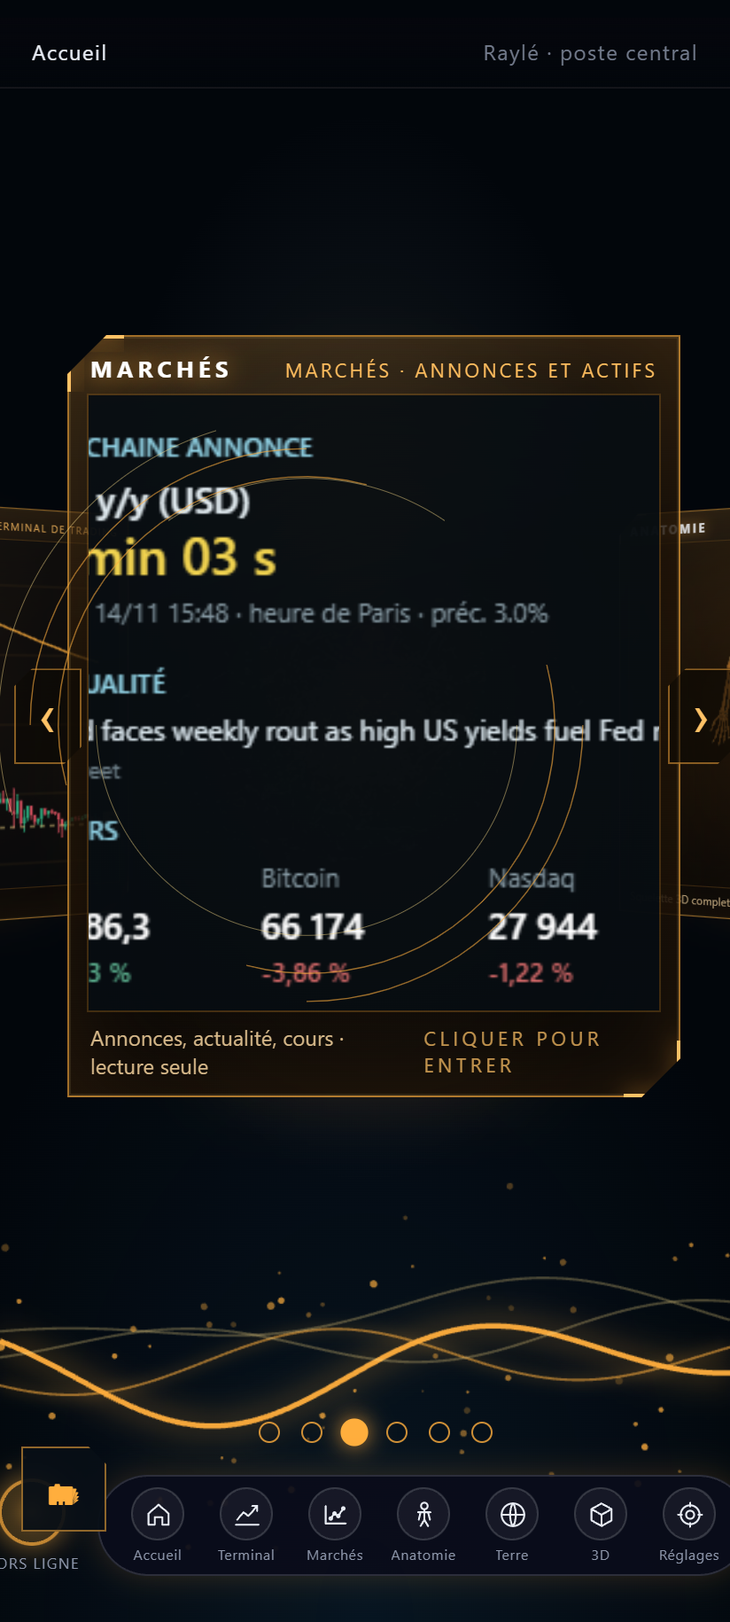
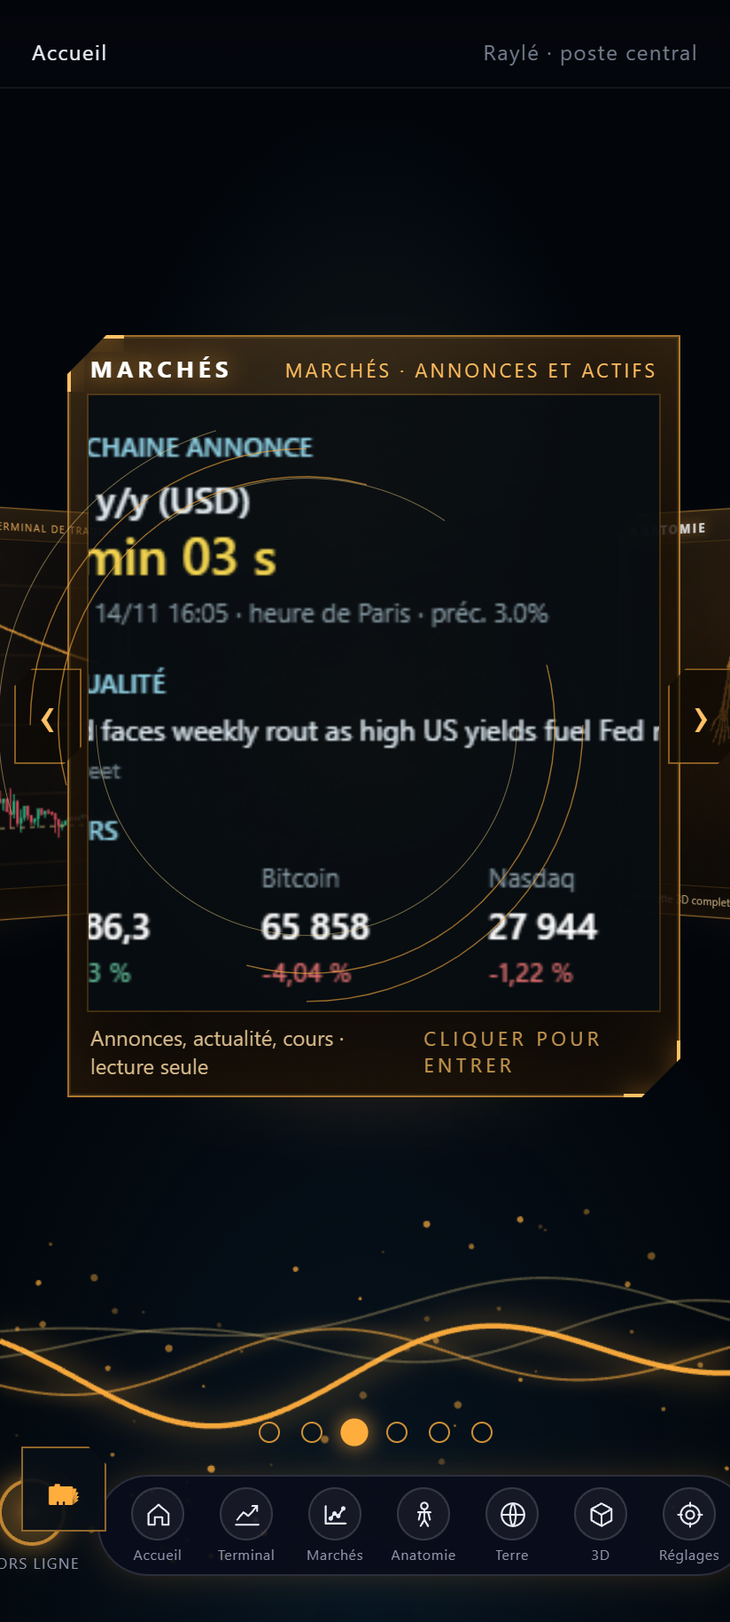
Mobile autonome : service worker avec precache et cache d'abord, squelettes, Worker de calcul, perf, rapports, version 2026.11.14.1

diff --git a/agent-trading/front/marches/marches-fenetre.js b/agent-trading/front/marches/marches-fenetre.js
@@ -52,10 +52,10 @@ export async function ouvrir({ racine = document.body, onFermer = () => {} } = {
     el.querySelectorAll('[data-actif]').forEach(b => b.setAttribute('aria-pressed', String(b.dataset.actif === id)));
     cible.innerHTML = '<p class="mf-att" role="status">Lecture des données…</p>';
     try { if (id === 'sante') return await ficheSante(cible, n); const a = parId[id]; if (!a) return;
-      const [h1, j, m15, cr, cal, act, cot] = await Promise.all([lireBougies(a.sym, '1h').catch(() => null), lireBougies(a.sym, '1d').catch(() => null), lireBougies(a.sym, '15m').catch(() => null), coursRapides().catch(() => null), calendrierSemaine().catch(() => null), actualites('marches', 60).catch(() => null), lireRoute(`/__cot?inst=${a.cot}&n=80`).catch(() => null)]);
+      const [h1, j, m15, cr, cal, act, cot] = await Promise.all([lireBougies(a.sym, '1h', { ttl: 20 * 60e3 }).catch(() => null), lireBougies(a.sym, '1d', { ttl: 20 * 60e3 }).catch(() => null), Promise.resolve(null), coursRapides().catch(() => null), calendrierSemaine().catch(() => null), actualites('marches', 60).catch(() => null), lireRoute(`/__cot?inst=${a.cot}&n=80`).catch(() => null)]);
       if (n !== S.seq) return; if (!h1 && !j) throw Object.assign(new Error('Aucune bougie disponible pour cet actif (réseau et instantanés injoignables, pas de copie locale).'), { sansDonnee: true });
       const H1 = h1 ? h1.donnees.bougies : [], J = j ? j.donnees.bougies : [], M15 = m15 ? m15.donnees.bougies : [], now = Date.now();
-      const an = await calculer({ type: 'analyse', series: { H1, J, M15 }, maintenant: now }).catch(() => null); if (n !== S.seq) return;
+      const an = await calculer({ type: 'analyse', series: { H1, J, M15 }, maintenant: now }).catch(() => null); if (n !== S.seq) return; if (an) an.fleches = [];
       const q = cr && cr.cours && cr.cours[a.id], prix = q ? q.prix : (an && an.prix), veille = q ? q.veille : (H1.length > 24 ? H1[H1.length - 25].c : null), v = variation(prix, veille);
       const liees = cal ? prochaines(cal.liste, now, { impacts: ['fort'], max: 5, pays: a.pays.length ? a.pays : ['USD'] }) : [], aa = act ? actusPourActif(act.items, a, 6) : [], c = cot ? lireCot(cot.donnees) : null;
       const T = an ? an.tendances : {}, dir = an && an.fleches && an.fleches.length ? an.fleches[an.fleches.length - 1] : null;
@@ -64,13 +64,14 @@ export async function ouvrir({ racine = document.body, onFermer = () => {} } = {
         <p class="mf-doux">${q ? esc(q.origine + ' · ' + q.retard) : esc(h1 ? badge(h1) || h1.origine : 'bougies')}${an && an.tDernier ? ' · dernière bougie H1 : ' + esc(heureParis(an.tDernier)) : ''}</p>${hl ? `<p class="pg-etat pg-hl">${esc(badge(hl))}</p>` : ''}
         ${an ? `<h4>Tendance</h4><p><b>${esc(T.J ? T.J.sens : '—')}</b> en journalier : ${esc(T.J ? T.J.raison || '' : '')}</p><p>${esc(an.mtf.texte)} <small>(score descriptif ${an.mtf.score >= 0 ? '+' : ''}${an.mtf.score}/${an.mtf.sur} : une lecture, jamais un signal)</small></p>
         <table class="mf-t"><tr><th>M15</th><th>H1</th><th>H4</th><th>Jour</th><th>RSI H1</th><th>RSI J</th></tr><tr>${['M15', 'H1', 'H4', 'J'].map(k => `<td class="mf-${(T[k] && T[k].sens) === 'haussière' ? 'hausse' : (T[k] && T[k].sens) === 'baissière' ? 'baisse' : 'neutre'}" title="${esc(T[k] ? T[k].raison || '' : '')}">${esc(T[k] ? T[k].sens : '—')}</td>`).join('')}<td>${an.rsiH1 == null ? '—' : an.rsiH1.toFixed(0)}</td><td>${an.rsiJ == null ? '—' : an.rsiJ.toFixed(0)}</td></tr></table>` : '<p class="mf-doux">Statistiques indisponibles (calcul interrompu).</p>'}
-        <div class="mf-graph" data-graph></div><p class="mf-doux">${an && an.flechesNote ? esc(an.flechesNote) : ''} ${dir ? '· dernière flèche : ' + (dir.dir > 0 ? 'achat' : 'vente') + ' le ' + esc(heureParis(dir.t)) : ''}</p>
+        <div class="mf-graph" data-graph></div><p class="mf-doux" data-note>flèches v8 : calcul en cours (en lecture seule)…</p>
         <h4>Annonces liées (à venir, impact fort)</h4>${liees.length ? `<ul class="mf-liste">${liees.map(x => `<li><b>${esc(x.titre)}</b> · ${esc(x.pays)} <span class="mf-cr" data-cr="${x.t}">${esc(compteARebours(x.t, now))}</span> <small>${esc(heureParis(x.t))}</small></li>`).join('')}</ul>` : '<p class="mf-doux">Aucune annonce majeure à venir pour ce marché cette semaine.</p>'}
         <h4>Actualités filtrées</h4>${aa.length ? `<ul class="mf-liste">${aa.map(x => `<li><a href="${/^https?:\/\//.test(x.lien || '') ? esc(x.lien) : '#'}" target="_blank" rel="noopener noreferrer">${esc(x.titre)}</a> <small>${esc(x.source || '')}</small></li>`).join('')}</ul>` : '<p class="mf-doux">Aucune actualité récente sur cet actif dans les sources suivies.</p>'}
         <h4>Publications publiques (COT, CFTC)</h4><p>${esc(phraseCot(c))}</p>${cot ? pEtat(cot) : ''}
         ${act ? pEtat(act) : ''}</article>`;
       el.querySelectorAll('[data-actif]').forEach(b => b.setAttribute('aria-pressed', String(b.dataset.actif === id)));
-      if (H1.length > 30) dessiner(cible.querySelector('[data-graph]'), H1.slice(-170), an ? an.fleches : [], a.dec, n);
+      if (H1.length > 30) { const box = cible.querySelector('[data-graph]'); await dessiner(box, H1.slice(-170), [], a.dec, n);
+        calculer({ type: 'fleches', series: { H1 }, maintenant: now }).then(fl => { if (n !== S.seq) return; const note = cible.querySelector('[data-note]'), d2 = fl.fleches && fl.fleches.length ? fl.fleches[fl.fleches.length - 1] : null; if (note) note.textContent = (fl.flechesNote || '') + (d2 ? ' · dernière flèche : ' + (d2.dir > 0 ? 'achat' : 'vente') + ' le ' + heureParis(d2.t) : ''); if (fl.fleches && fl.fleches.length && H1.length > 30) dessiner(box, H1.slice(-170), fl.fleches, a.dec, n); }).catch(e => { const note = cible.querySelector('[data-note]'); if (note) note.textContent = 'flèches indisponibles : ' + (e && e.message || e); }); }
     } catch (e) { if (n === S.seq) cible.innerHTML = `<p class="mf-panne" role="alert">${esc(e.sansDonnee ? e.message : 'Fiche impossible : ' + (e && e.message || e))} <button type="button" data-recharge="fiche">Réessayer</button></p>`; }
   }
   async function dessiner(box, B, fleches, dec, n) {

diff --git a/sw.js b/sw.js
@@ -9,11 +9,15 @@
    • Mise à jour : changer VERSION (= window.RAYLE_VERSION de index.html, vérifié par build.mjs) installe une nouvelle version qui ATTEND ; la page affiche « Nouvelle version disponible » ;
      au toucher, la page envoie SKIP_WAITING puis se recharge. Chaque version a ses caches : les anciens sont supprimés à l'activation.
    COEUR est remplacé à la construction (build.mjs) par la liste exacte des fichiers chargés au démarrage. */
-const VERSION = '2026.11.13.1';
+const VERSION = '2026.11.14.1';
 const SHELL = 'rayle-shell-' + VERSION, IMAGES = 'rayle-images-1';
 const COEUR = ['./', 'index.html', 'offline.html', 'manifest.webmanifest', 'favicon.svg', 'icones/rayle-192.png', 'config.js'];   // /*COEUR*/
-const TAILLE_MAX = 600 * 1024;
-const GARDER = /\.(?:js|mjs|css|html|json|webmanifest|svg|png|woff2?)$/i;
+const TAILLE_MAX = 2 * 1024 * 1024;
+/* 2026-11-14 (mobile autonome) : la liste de TOUS les fichiers d'un parcours complet est dans precache.json (outils-restructuration/collecter-precache.mjs) : installée avec la coque ;
+   ensuite le code et les ressources du même fichier viennent du cache D'ABORD (démarrage immédiat, hors ligne), sauf les pages de navigation, sw.js, precache.json et config.js (réseau d'abord : les mises à jour sont vues tout de suite).
+   Un changement de VERSION ré-installe tout (anciens caches supprimés). Les données de marché (instantanés, Kraken, Binance, Open-Meteo) ne passent PAS ici : la couche de données de la page gère son cache IndexedDB. */
+const RESEAU_D_ABORD = /(?:^|\/)(?:sw\.js|precache\.json|config\.js|index\.html|offline\.html)$|\/$/;
+const GARDER = /\.(?:js|mjs|css|html|json|webmanifest|svg|png|jpe?g|webp|woff2?)$/i;
 const JAMAIS = /\/(?:assets-lourds|captures[^/]*|docs|idees)\//i;
 
 /* Notifications des flèches (mode Direct) : un clic ramène sur le terminal. */
@@ -26,7 +30,8 @@ self.addEventListener('install', e => {
     const c = await caches.open(SHELL);
     // par lots de 8 (un serveur ne doit pas recevoir 90 demandes d'un coup), un nouvel essai par fichier ; un fichier absent n'empêche pas l'installation
     const un = async u => { for (let k = 0; k < 2; k++) { try { await c.add(new Request(u, { cache: 'reload' })); return; } catch (err) { /* nouvel essai */ } } };
-    for (let i = 0; i < COEUR.length; i += 8) await Promise.all(COEUR.slice(i, i + 8).map(un));
+    let liste = COEUR.slice(); try { const r = await fetch('precache.json', { cache: 'reload' }); if (r.ok) { const d = await r.json(); if (d && Array.isArray(d.coeur)) liste = [...new Set([...COEUR, ...d.coeur])]; } } catch (err) { /* sans liste : coque minimale */ }
+    for (let i = 0; i < liste.length; i += 8) await Promise.all(liste.slice(i, i + 8).map(un));
     self.skipWaiting();   // 2026-11-12 : la nouvelle version prend la main tout de suite (l'ancienne interface mobile ne doit plus jamais rester affichée)
   })());
 });
@@ -56,6 +61,11 @@ async function reseauDAbord(req) {
     throw err;
   }
 }
+async function cacheDAbord(req) {
+  const c = await caches.open(SHELL), copie = await c.match(req, { ignoreSearch: true });
+  if (copie) return copie;
+  return reseauDAbord(req);
+}
 async function copieDAbord(req) {
   const c = await caches.open(IMAGES), copie = await c.match(req);
   if (copie) return copie;
@@ -70,7 +80,7 @@ self.addEventListener('fetch', e => {
   const u = new URL(req.url);
   if (u.origin === self.location.origin) {
     if (u.pathname.includes('/__') || req.headers.has('range') || /^\/(?:health|sources|actualites|meteo|evenements|calendar|cot|macro|sec|wgc|ce-jour-la|chat|tts)(?:\/|$)/.test(u.pathname)) return;   // routes du PC ou du backend servi sur la même origine : le réseau, sans interception
-    e.respondWith(reseauDAbord(req));
+    e.respondWith(RESEAU_D_ABORD.test(u.pathname) || req.mode === 'navigate' ? reseauDAbord(req) : cacheDAbord(req));
   } else if (req.destination === 'image') e.respondWith(copieDAbord(req));
   // tout le reste (backend, API de marché, météo…) : le réseau, sans interception
 });

diff --git a/core/commun/application.js b/core/commun/application.js
@@ -205,6 +205,11 @@
     const m=await import(new URL('planetes/terre/mobile/terre-mobile.js',document.baseURI).href); await m.ouvrir({onFermer:()=>{ terreMobileOuverte=false; }}); terreMobileOuverte=true;
   }
   async function fermerTerreMobile(){ try{ const m=await import(new URL('planetes/terre/mobile/terre-mobile.js',document.baseURI).href); m.fermer(); }catch(e){} terreMobileOuverte=false; }
+  /* squelette immédiat (jamais un écran noir) pendant le chargement du terminal ou des marchés ; retiré dès que la fenêtre a pris la main */
+  function montrerSquelette(){
+    if(!document.getElementById('app-sq-css')){ const st=document.createElement('style'); st.id='app-sq-css'; st.textContent='#app-squelette{position:fixed;inset:0;z-index:105;display:flex;flex-direction:column;justify-content:center;gap:14px;padding:0 6%;background:#05080c;transition:opacity .3s}#app-squelette.fin{opacity:0;pointer-events:none}#app-squelette p{margin:0;text-align:center;color:#7d8f99;font:13px system-ui,sans-serif}.app-sq-b{display:flex;align-items:flex-end;gap:5px;height:42vh}.app-sq-b i{flex:1;background:#14212b;border-radius:2px;animation:app-sq 1.4s ease-in-out infinite}@keyframes app-sq{50%{opacity:.35}}@media (prefers-reduced-motion:reduce){.app-sq-b i{animation:none}}'; document.head.appendChild(st); }
+    const d=document.createElement('div'); d.id='app-squelette'; d.setAttribute('role','status'); d.innerHTML='<div class="app-sq-b">'+Array.from({length:32},(_,i)=>'<i style="height:'+(22+Math.round(38*Math.abs(Math.sin(i*0.7+1))))+'%;animation-delay:'+(i%8)*0.12+'s"></i>').join('')+'</div><p>Chargement…</p>'; document.body.appendChild(d); return d;
+  }
   async function ouvrir(id,opts){
     const f=FENETRES.find(x=>x.id===id); if(!f||id==='rayle') return aller(0,{force:true});
     if(ouvert===id) return true; if(ouvert) await fermer({silencieux:true,sansAnim:true});
@@ -212,14 +217,16 @@
     if(id==='terre'){ try{ window.__RAYLE_TERRE_DEPART__=window.Miniatures&&window.Miniatures.terreEtat?window.Miniatures.terreEtat():null; }catch(e){} }   // la grande Terre démarre là où tournait la miniature
     const g=grandir(id);
     ouvert=id; corps.classList.add('app-ouvert'); croix.hidden=false; corps.dataset.appOuvert=id; placer();
+    const sq=(id==='terminal'||id==='marches')?montrerSquelette():null; const finSq=()=>{ if(sq){ sq.classList.add('fin'); setTimeout(()=>sq.remove(),350); } };
     try{
       if(id==='terre'&&!utiliserTerreMobile()) montrerApercuTerre();
       if(id==='terminal') await bus().demander('vue:ouvrir','terminal'); else if(id==='marches') await ouvrirMarches(); else if(id==='anatomie'&&await utiliserAtlas()) await ouvrirAtlas(); else if(id==='terre'&&utiliserTerreMobile()) await ouvrirTerreMobile(); else await ouvrirPlanete(id,opts);
     }catch(e){
       if(apercu){ const a0=apercu; apercu=null; a0.remove(); }
       console.error('[app] ouverture de '+id+' :',e); try{ bus().emit('vue:erreur',{message:f.nom+' n’a pas pu s’ouvrir : '+(e&&e.message||e)}); }catch(x){}
-      if(g) g.remove(); await fermer({silencieux:true,sansAnim:true}); return false;
+      finSq(); if(g) g.remove(); await fermer({silencieux:true,sansAnim:true}); return false;
     }
+    finSq();
     if(id==='terre'&&!terreMobileOuverte) cacherApercuTerre();
     if(g){ await attendre(220); g.classList.add('ac-fond'); setTimeout(()=>g.remove(),450); }
     try{ bus().emit('app:ouvert',{id}); bus().fusion('app',{vue:id,ouvert:id}); }catch(e){}

diff --git a/agent-trading/front/terminal/vue-terminal.js b/agent-trading/front/terminal/vue-terminal.js
@@ -7,6 +7,10 @@ import { monterTerminal } from './terminal.js';
 const ancienV2 = () => { try { return localStorage.getItem('rayle_terminal_ancien_v2') === '1'; } catch (e) { return false; } };
 function monterOr(h) {
   const f = document.createElement('iframe'); f.className = 'tr-or'; f.title = 'Terminal de l’or'; f.allow = 'clipboard-read; clipboard-write; autoplay; microphone'; f.style.cssText = 'position:absolute;inset:0;width:100%;height:100%;border:0;background:#05080c';
+  /* squelette visible tout de suite (jamais un écran noir) : bougies grises animées, retirées quand le cadre a chargé et dessiné son graphique */
+  if (!document.getElementById('tr-squelette-css')) { const st = document.createElement('style'); st.id = 'tr-squelette-css'; st.textContent = '.tr-squelette{position:absolute;inset:0;z-index:1;display:flex;flex-direction:column;justify-content:center;gap:14px;padding:0 6%;background:#05080c;pointer-events:none;transition:opacity .35s}.tr-squelette.tr-fin{opacity:0}.tr-squelette p{margin:0;text-align:center;color:#7d8f99;font:13px system-ui,sans-serif}.tr-sq-b{display:flex;align-items:flex-end;gap:5px;height:42vh}.tr-sq-b i{flex:1;background:#14212b;border-radius:2px;animation:tr-sq 1.4s ease-in-out infinite}@keyframes tr-sq{50%{opacity:.35}}@media (prefers-reduced-motion:reduce){.tr-sq-b i{animation:none}}'; document.head.appendChild(st); }
+  const sq = document.createElement('div'); sq.className = 'tr-squelette'; sq.setAttribute('role', 'status'); sq.innerHTML = '<div class="tr-sq-b">' + Array.from({ length: 32 }, (_, i) => '<i style="height:' + (22 + Math.round(38 * Math.abs(Math.sin(i * 0.7 + 1)))) + '%;animation-delay:' + (i % 8) * 0.12 + 's"></i>').join('') + '</div><p>Chargement du graphique…</p>'; h.appendChild(sq);
+  const finSq = () => { if (!sq.isConnected) return; sq.classList.add('tr-fin'); setTimeout(() => sq.remove(), 400); }; f.addEventListener('load', () => { let n = 0; const t = setInterval(() => { let pret = false; try { pret = [...f.contentDocument.querySelectorAll('canvas')].some(c => c.width > 300 && c.height > 150); } catch (e) { pret = true; } if (pret || ++n > 40) { clearInterval(t); finSq(); } }, 150); }); setTimeout(finSq, 15000);
   f.src = new URL('../or.html?vue=1', import.meta.url).href; h.appendChild(f);
   const proxy = { commande: t => { try { const T = f.contentWindow.TableauOr; return T && T.commande ? T.commande(t) : null; } catch (e) { return null; } } }; window.TableauOr = proxy;   // la voix de Rayle (phrase.js) interroge window.TableauOr : on le relaie vers la page de l'or
   return { iframe: f, detruire() { if (window.TableauOr === proxy) delete window.TableauOr; f.remove(); }, module(n) { return n === 'rayle' ? { commande: t => { try { const T = f.contentWindow.TableauOr; return !!(T && T.commande && T.commande(t)); } catch (e) { return false; } } } : null; } };

diff --git a/core/commun/miniatures.js b/core/commun/miniatures.js
@@ -178,9 +178,19 @@
     return { dessiner, tic(){ dessiner(); }, intervalle:1000, statique:true };
   }
 
+  /* ───── terre légère (téléphone, tablette) : une image de 30 Ko, aucune texture 8k, aucun moteur 3D ───── */
+  async function creerTerreLegere(m){
+    const img=new Image(); img.src=new URL('planetes/terre/apercu/terre-apercu.jpg',document.baseURI).href; try{ await img.decode(); }catch(e){}
+    function dessiner(t){ const c=m.ctx; c.clearRect(0,0,W,H); c.fillStyle='#02040a'; c.fillRect(0,0,W,H); const r=Math.min(W,H)*0.36, cx=W/2, cy=H/2;
+      const g=c.createRadialGradient(cx,cy,r*0.9,cx,cy,r*1.25); g.addColorStop(0,'rgba(90,150,255,.35)'); g.addColorStop(1,'rgba(90,150,255,0)'); c.fillStyle=g; c.beginPath(); c.arc(cx,cy,r*1.25,0,7); c.fill();
+      c.save(); c.beginPath(); c.arc(cx,cy,r,0,7); c.clip(); if(img.naturalWidth){ const k=(t*0.00002)%1, w2=img.naturalWidth, h2=img.naturalHeight, sc=(2*r)/h2*1.0; const dw=w2*sc; for(const dx of [-dw,0,dw]) c.drawImage(img,cx-r+dx-k*dw,cy-r,dw,2*r); } c.restore();
+      c.fillStyle='rgba(0,0,0,.28)'; c.beginPath(); c.arc(cx+r*0.35,cy,r,0,7); c.globalCompositeOperation='destination-out'; c.globalCompositeOperation='source-over'; }
+    return { dessiner, tic(now){ dessiner(now); }, intervalle:120, statique:true };
+  }
+
   /* ───── cycle de vie ───── */
   const LIBELLES={marches:'Annonces, actualité, cours · lecture seule',terminal:'Or · H1 · Kraken · lecture seule',anatomie:'Squelette 3D complet',terre:'',dev3d:'Atelier de maquettes 3D',rayle:''};
-  const FABRIQUES={marches:creerMarches,terminal:creerTerminal,anatomie:creerAnatomie,terre:creerTerre,dev3d:creerDev3d,rayle:creerRayle};
+  const FABRIQUES={marches:creerMarches,terminal:creerTerminal,anatomie:creerAnatomie,terre:(window.RayleAppareil&&window.RayleAppareil.mode()!=='pc')?creerTerreLegere:creerTerre,dev3d:creerDev3d,rayle:creerRayle};
   async function creer(id,canvas){
     if(minis.has(id)) return minis.get(id);
     if(!minis.size&&canvas.parentElement){ const bw=canvas.parentElement.offsetWidth, bh=canvas.parentElement.offsetHeight; if(bw>50&&bh>50){ H=260; W=Math.max(320,Math.min(720,Math.round(260*bw/bh))); } }

diff --git a/agent-trading/front/donnees/routes.js b/agent-trading/front/donnees/routes.js
@@ -55,7 +55,7 @@ export async function krakenSpot(sym, intervalle, { fetchFn = (...a) => fetch(..
   const der = L.length ? L[L.length - 1] : null;
   return { bougies, prix: der ? +der[4] : null, tPrix: Date.now() };
 }
-export async function lireBougies(sym, intervalle, { range = null, fetchFn = (...a) => fetch(...a), loc = globalThis.location, stockage = null, maintenant = () => Date.now() } = {}) {
+export async function lireBougies(sym, intervalle, { ttl = null, range = null, fetchFn = (...a) => fetch(...a), loc = globalThis.location, stockage = null, maintenant = () => Date.now() } = {}) {
   const o = originePc(loc), sources = [];
   if (o) sources.push({ niveau: 'pc', nom: 'serveur du PC (Yahoo)', ms: 20000, url: `${o}/__bougies?sym=${encodeURIComponent(sym)}&interval=${intervalle}${range ? '&range=' + range : ''}` });
   sources.push({ niveau: KRAKEN_PAIRES[sym] ? 'direct' : 'snapshot', nom: KRAKEN_PAIRES[sym] ? 'Kraken (direct) + snapshot' : 'snapshot ' + nomFichierBougies(sym, intervalle), ms: 15000,
@@ -67,7 +67,7 @@ export async function lireBougies(sym, intervalle, { range = null, fetchFn = (..
       const bougies = fusionnerBougies(base && base.bougies, direct && direct.bougies);
       return { ...(base || { sym, nom: sym, intervalle }), bougies, prix: direct && direct.prix != null ? direct.prix : (base && base.prix), tPrix: direct ? direct.tPrix : (base && base.tPrix), source: direct ? 'Kraken (direct) · historique du snapshot' : (base && base.source), t: direct ? maintenant() : (base && base.t) };
     } });
-  const res = await lireDonnee(`bougies|${sym}|${intervalle}`, { sources, ttl: intervalle === '1d' ? 10 * 60e3 : 45e3, stockage: stockage || creerStockageParDefaut(), fetchFn, maintenant,
+  const res = await lireDonnee(`bougies|${sym}|${intervalle}`, { sources, ttl: ttl != null ? ttl : (intervalle === '1d' ? 10 * 60e3 : 45e3), stockage: stockage || creerStockageParDefaut(), fetchFn, maintenant,
     valider: d => (d && Array.isArray(d.bougies) && d.bougies.length ? true : 'aucune bougie') });
   return { ...res, donnees: expanserBougies(res.donnees) };
 }

diff --git a/agent-trading/front/marches/calcul-dispatch.js b/agent-trading/front/marches/calcul-dispatch.js
@@ -1,8 +1,9 @@
 /* Répartiteur de calculs (utilisé par le Worker et, en secours, par le fil principal). Modules purs : stats-marches, couverture-calcul, performances-calcul. */
 import { analyseActif } from './stats-marches.js';
 export async function repondre(m) {
-  if (m.type === 'analyse') {
-    const r = analyseActif(m.series || {}); let fleches = [];
+  if (m.type === 'analyse') return analyseActif(m.series || {});   // rapide : affiché tout de suite
+  if (m.type === 'fleches') {
+    const r = {}; let fleches = [];
     try {
       const F8 = await import('../or/fleches-simples-v8.js'), Z = await import('../or/zones-direct.js'), H1 = (m.series && m.series.H1) || [];
       if (H1.length > 300) { const res = F8.calculer(H1, Z.zonesDirect, { maintenant: m.maintenant || Date.now(), bougies: 720, exception: true }); fleches = (res.fleches || []).filter(f => f.type !== 'ma_cassure').map(f => ({ t: f.tCloture || f.t, dir: f.dir, type: f.type, prix: f.prix })); r.flechesNote = 'flèches v8 en lecture seule : les règles ne sont pas modifiées'; }

diff --git a/index.html b/index.html
@@ -289,7 +289,7 @@
   <div id="chargement"><div id="chargement-texte">Chargement des mondes…</div><div class="g-barre"><div id="chargement-barre"></div></div></div>
 </div>
 
-<script>window.RAYLE_VERSION='2026.11.13.1';</script>
+<script>window.RAYLE_VERSION='2026.11.14.1';</script>
 <script src="config.js"></script>
 <script src="core/commun/maj-pc.js"></script>
 <script src="core/commun/bascule-worker.js"></script>

diff --git a/outils-restructuration/INDEPENDANCE-PC.md b/outils-restructuration/INDEPENDANCE-PC.md
@@ -1,0 +1,30 @@
+# Indépendance du PC (2026-11-14)
+
+## 1. Inventaire : ce qui dépendait du serveur du PC
+| Fonction | Dépendance d'origine | Solution |
+|---|---|---|
+| COT, Actualités, Banques, Institutions, Santé du marché, GLD, Calendrier (onglets du terminal) | routes `/__cot`, `/__actus`, `/__banques`, `/__institutions`, `/__sante`, `/__gld`, `/__calendrier2`, `/__yahoo` de `serveur.mjs` (404 sur GitHub Pages) | `agent-trading/front/donnees/routes.js` : PC seulement si la page vient de lui, sinon **instantané** de la branche `donnees`, sinon **copie locale** (IndexedDB) datée |
+| Bougies Nasdaq, S&P, Bitcoin, Solana, dollar, EUR/USD, USD/CHF | `/__bougies` (Yahoo via le PC) | `lireBougies` : Bitcoin et Solana en **direct** (Kraken, CORS ouvert) fusionnés à l'historique de l'instantané ; autres : instantané `bougies-*.json` |
+| Or (graphique) | relais Cloudflare `rayle-or-relais` (indépendant du PC) | inchangé (n'a jamais dépendu du PC) |
+| Rayle Marchés (12 panneaux) | `/marches/panneau` du serveur | instantanés `marches-<id>[-<actif>].json` (même code du hub exécuté par le robot) + copie locale |
+| Copilote de données, analyse IA automatique | serveur de Rayle | sans le PC : message clair ; **mode manuel gratuit** (export / import) inchangé |
+| Journal et Capital | déjà sur l'appareil (localStorage / IndexedDB) | + sauvegarde / restauration JSON dans ⚙ Réglages |
+| Terre (téléphone) | module 3D du PC (tuiles de plusieurs serveurs, Workers, texture 8k) : restait sur « Chargement… » | **Terre mobile** autonome (`planetes/terre/mobile/`), textures du dépôt, séismes USGS et météo Open-Meteo en direct |
+| Alertes Telegram | processus `alertes-serveur.mjs` sur le PC | workflow GitHub Actions `alertes.yml` (même moteur v8, mêmes règles) |
+| Miniature de la Terre (carrousel) | globe 3D avec textures 8k téléchargées sur téléphone | image de 30 Ko sur téléphone et tablette |
+
+## 2. Couche de données (trois niveaux)
+Ordre : copie locale affichée tout de suite si fraîche → lecture directe → instantané → copie périmée **avec le badge « hors ligne : dernière donnée du JJ/MM à HH:MM »**. Jamais de « HTTP 404 » brut : sans rien, message « Aucune donnée pour le moment… ». Page « État des sources » : ⚙ Réglages › Autonomie (origine, âge, erreur, dernier passage du robot).
+
+Lectures directes vérifiées par test réel (CORS) : Kraken spot OHLC, Binance (spot et futures), CFTC, mempool.space, DefiLlama, USGS, Open-Meteo, relais de l'or. Bloquées (donc par instantané) : flux RSS, FRED, calendrier Forex Factory, SEC, Trésor, Fed de New York, Yahoo. Frankfurter a changé d'adresse (redirection 301) : non utilisée en direct.
+
+## 3. Robot d'instantanés (`.github/workflows/donnees.yml`)
+Toutes les 15 min (au mieux ; GitHub peut retarder) : lot rapide (actualités, calendrier, Yahoo, 12 panneaux Marchés) ; une exécution sur deux : bougies ; chaque heure : COT (8), banques, institutions, santé, GLD, séries journalières de l'univers (15 actifs, prix ajustés). Branche orpheline `donnees`, historique écrasé (le dépôt ne grossit pas), lue par `raw.githubusercontent.com` (CORS `*`). Dépôt public : minutes gratuites. Une source en panne ne détruit pas la copie précédente (`index.json` note l'erreur). `verifier-publication.mjs` refuse de publier un secret ou une donnée personnelle.
+
+## 4. Alertes sans PC (`alertes.yml`)
+Toutes les 5 min (au mieux) : `alertes-serveur.mjs --une-fois`, mêmes règles (v8, anti-spam 6/heure/actif, 5 min entre deux messages d'un même niveau, déduplication), état gardé dans `etat/alertes-etat.json` de la branche `donnees`. **Retards de quelques minutes possibles : pas du temps réel à la seconde.** Le jeton Telegram n'est jamais dans le dépôt : secrets `TELEGRAM_BOT_TOKEN` et `TELEGRAM_CHAT_ID`. Appli fermée, les notifications du navigateur ne marchent pas : seules les alertes Telegram du robot arrivent.
+
+## 5. Ce qui ne marche PAS sans le PC
+Copilote de données (interroge le serveur), analyse IA **automatique** (la clé reste côté serveur), séries FRED libres, route d'actions saisies hors liste du robot, voix Azure, IA locale (LM Studio), agent PC. Tout le reste fonctionne.
+
+Tests : `tests-navigateur/independance-pc-test.mjs` (54, PC arrêté puis réseau coupé), `terre-mobile-test.mjs` (25), `reglages-autonomie-test.mjs` (46), `marches-carrousel-test.mjs` (40 × 2), `sw-hors-ligne-test.mjs` (9), `agent-trading/tests/couche-donnees-test.mjs` (28).

diff --git a/outils-restructuration/RAPPORT-COUVERTURE-PERFORMANCES.md b/outils-restructuration/RAPPORT-COUVERTURE-PERFORMANCES.md
@@ -1,0 +1,16 @@
+# Couverture et performances (Phase 6, 2026-11-14)
+Sous-page de la fenêtre Marchés (section « Couverture et performances »). Code : `agent-trading/front/marches/{couverture-calcul,performances-calcul,journal-p6,univers,couverture-ui}.js` ; calculs lourds dans le Worker ; données : `jour-<actif>.json` (robot).
+
+## Sources par actif (gratuites, sans clé)
+Or = Yahoo `GC=F` (contrat à terme : écart de base avec le spot) · US100 `^NDX`, US500 `^GSPC` (indices, sans dividendes) · Bitcoin `BTC-USD`, Solana `SOL-USD` (depuis 2020 : historique court) · EUR/USD, USD/CHF + GBP/USD, USD/JPY, EUR/CHF, AUD/USD (Yahoo, taux interbancaire, **sans swap**) · contexte : DXY, taux US 10 ans (`^TNX`), taux US 2 ans (**FRED DGS2**), VIX · inflation (FRED CPI) : contexte, **jamais dans les corrélations**. Retard : différé ≈ 15 min (indices, or), quasi temps réel (crypto, monnaies). Tout est écrit dans l'onglet « Sources ».
+Prix ajustés (splits, dividendes) quand Yahoo fournit `adjclose` (actions) ; clôtures **synchronisées par date** entre marchés. **Actions d'entreprise saisies par l'utilisateur** : l'appli ne peut pas lire Yahoo seule (pas de CORS) ; le symbole se déclare dans `outils-donnees/univers-utilisateur.json` (une ligne, `{"id":"AAPL","yahoo":"AAPL"}`), le robot le télécharge au passage suivant ; sinon message honnête, rien n'est estimé.
+
+## Partie A : couverture (testée : 51 + 27 vérifications)
+Matrice de corrélations de **rendements** (30, 90, 250 jours ; 5 jours horaires quand les barres existent), nombre d'observations, stabilité par paire (corrélation glissante, changements de signe, écart entre fenêtres), « pas assez de données » sous 60 observations. Couvertures d'une position (achat / vente) : jambe à ouvrir, ratio à variance minimale **en risque** (part du risque = |ρ|), réduction de volatilité et de perte maximale, espérance perdue, comportement des pires jours (10 %), coût (spread et swap **saisis par toi** ; sans valeur : « non renseigné », jamais inventé), réglage (60 %) et test (40 %) séparés, verdict utile / partielle / instable / inutile. Portefeuille : exposition nette par facteur (dollar, actions, or, crypto, franc), doublons signalés. Journal XTB : import CSV et Excel (lecteur ZIP/XML maison), statistiques (réussite, gain/perte, espérance et R quand le stop est connu, factor de profit, frais, drawdown, par heure / jour / actif / sens, séries de pertes, revanche, nuit), « petit échantillon » sous 30, simulation « mes résultats avec la couverture proposée » (notionnel déduit de chaque trade). Données **sur l'appareil**.
+
+## Partie B : performances (testée : 39 vérifications)
+Tableau (1/3/6 mois, 1/3/5 ans, par année, mois et semaines en hausse, drawdown et durée, séries, volatilité, plus forte remontée contre la tendance), tendance de fond 3/6/12 mois avec régularité et changements de sens, **test de persistance** (règles figées avant : horizons 6 et 12 mois, 50 % réglage / 50 % test, 1 000 tirages, graine fixe, Holm, n < 30 : indéterminé ; verdict sur le **hors échantillon**), stratégie « suivre la tendance » (MA200) simulée avec spread, glissement, **swap**, levier, comparée à « ne rien faire », à « acheter et garder » et à 1 000 stratégies aléatoires de même exposition (décalage circulaire), effet du swap, comportement aux retournements, classement (tendance régulière observée / pas de tendance exploitable / données insuffisantes ; jamais une opportunité garantie), fonction de lecture seule `memeSensQueFleche` (non branchée à l'écran, voir limites).
+Vérifié sur jeux synthétiques : marche aléatoire → jamais « persisté » ; processus à dérive persistante → « persisté de façon significative » ; série de croissance connue → rendements attendus ; swap et spread abaissent le résultat.
+
+## Limites et ce qui n'est pas mesuré
+Rien n'est conseillé ; les mentions permanentes sont affichées. Aucune valeur de courtier supposée. Le résultat sur données réelles (ce que dit l'historique de l'or, du Nasdaq…) n'a pas été interprété ici : c'est l'outil qui le calcule. Les valeurs XTB réelles (spread, swap) restent à saisir. **B6 (même sens que la dernière flèche v8) : la fonction pure est écrite et testée mais N'EST PAS encore affichée dans l'interface** (reste à brancher).

diff --git a/PROGRESS.md b/PROGRESS.md
@@ -1,3 +1,18 @@
+# APPLI MOBILE AUTONOME (2026-11-14, branche `mobile-autonome`, étiquette `avant-mobile-autonome`)
+**Statut : fait et testé en émulation (S23, tablette) ; rien testé sur un vrai appareil.** Rapports : `outils-restructuration/{INDEPENDANCE-PC,PERF-MOBILE,RAPPORT-COUVERTURE-PERFORMANCES,RAPPORT-H4-JOUR}.md`. Règles de flèches v1…v8, archive `direct-v7-valide`, sceaux et contrôles : NON touchés.
+
+## Utiliser l'appli sans le PC
+- **Couche de données** (`agent-trading/front/donnees/{couche,routes}.js`) : copie locale (IndexedDB) → lecture directe (Kraken, USGS, Open-Meteo…) → instantanés publiés par le robot GitHub (`.github/workflows/donnees.yml`, branche orpheline `donnees`, lue par raw.githubusercontent.com). Badge « hors ligne : dernière donnée du … ». Page « État des sources » : ⚙ Réglages › Autonomie.
+- **Alertes Telegram sans PC** : `.github/workflows/alertes.yml` (5 min au mieux, retards possibles). Secrets à poser par Justin (voir commandes ci-dessous).
+- **Terre mobile** (`planetes/terre/mobile/`) : globe autonome, textures du dépôt (Solar System Scope CC BY 4.0, d'après NASA), séismes USGS, météo, recherche, actualités ; WebGL refusé ou texture absente = message + « Réessayer ».
+- **Fenêtre Marchés** dans le carrousel (miniature vivante, barre du bas) : annonces avec compte à rebours, fiche par actif (RSI, multi-échelles, flèches v8 en lecture seule calculées dans un Worker), alertes locales, panneaux et IA manuelle, **Couverture et performances** (Phase 6).
+- **Réglages** : section Autonomie (qualité, Terre, sources, notifications, fournisseur d'IA, sauvegarde/restauration, état des sources, version) ; la fenêtre passe au-dessus de toutes les autres.
+- **Graphiques H4/Jour** corrigés (MA200 en une ligne, niveaux proposés filtrés).
+- **Service worker** : `precache.json` (326 fichiers) cache d'abord ; version `2026.11.14.1` (index.html = sw.js). **À chaque publication : changer les deux et relancer `node outils-restructuration/collecter-precache.mjs`.**
+- Tests : `node agent-trading/tests/{couche-donnees,proposes-filtre,couverture,performances,journal-p6,marches-fenetre}-test.mjs`, `planetes/terre/tests/mobile-calcul-test.mjs`, `galaxie/tests/reglages-autonomie-test.mjs` ; Chrome (serveurs : `node serveur.mjs 8000` et `node outils-donnees/serveur-snapshots.mjs <dossier> 8801`) : `tests-navigateur/{independance-pc,terre-mobile,reglages-autonomie,marches-carrousel,sw-hors-ligne,perf-mobile}-test.mjs`.
+- **Pièges** : un heredoc Bash avec apostrophes est tronqué (utiliser l'outil Write) ; `\d` perdu dans un script d'édition ; le serveur local `serveur.mjs` est lui-même « le PC » (utiliser un nom d'hôte non local avec `--host-resolver-rules` pour simuler GitHub Pages) ; le service worker exige localhost ou HTTPS.
+- **Non vérifié** : vrai téléphone (tactile, géolocalisation, installation), exécution réelle des workflows (Yahoo depuis une IP GitHub), Telegram réel, fournisseurs d'IA réels.
+
 # ANALYSE IA : gratuite par défaut, fournisseur interchangeable (2026-11-14, branche `maj-marches-ia`)
 **Statut : fait et testé (Node + Chrome en émulation). Rien déployé, Worker non touché, aucun secret dans le dépôt. Remplace le « point 4 » du brief.**
 - **Sans rien configurer (gratuit, aucune clé, aucun abonnement)** : mode manuel complet. Marchés › « Analyse IA » (commande `IA`) : **Exporter pour analyse** → texte structuré (actif, unité de temps, 40 dernières bougies, MA200, RSI 14, échelle de prix, niveaux majeurs, flèches v8, consignes, format JSON) + **Copier le texte** + **Enregistrer la capture** (PNG du graphique du terminal) ; coller le texte dans n'importe quelle IA ; coller sa réponse JSON dans **Importer la réponse** → validation stricte → image annotée dessinée par notre code (bandes de zones nommées, niveaux, flèches de scénarios en pointillés, invalidations, légende, avertissement) + **Enregistrer l'image annotée**. Capture interne : conversion prix → pixel exacte (testée). Capture importée (option « Dessiner sur ma propre capture ») : on saisit le prix en haut et en bas de l'image ; mention très visible « POSITIONS APPROXIMATIVES ».

diff --git a/outils-restructuration/PERF-MOBILE.md b/outils-restructuration/PERF-MOBILE.md
@@ -1,0 +1,15 @@
+# Performance mobile (2026-11-14)
+Conditions : Galaxy S23 émulé (412×915, ×2), CPU ralenti ×4, réseau 1,6 Mbit/s / 150 ms, GPU logiciel SwiftShader (pessimiste). Script : `tests-navigateur/perf-mobile-test.mjs` (chiffres bruts : `perf-mesures.json`). Plafonds vérifiés automatiquement (échec si dépassés).
+
+| Mesure | Avant (visite sans précache) | Après (appli installée, 2e visite) | Plafond |
+|---|---|---|---|
+| Écran noir avant le terminal | 8 s et plus (relevé de la vidéo) ; squelette absent | **squelette 0,8 s** | 1,5 s |
+| Premier graphique du terminal | ≈ 13 à 15 s | **1,5 s** | 9 s |
+| Plus longue tâche (> 50 ms) | 1,2 à 2,0 s (calcul des flèches sur le fil principal) | **0,12 s** | 1,5 s |
+| Marchés prêt (fiche d'actif) | 18 s (flèches v8 bloquantes) | **0,5 s** copie locale · 11,7 s données froides | 12 s |
+| Mémoire JS | — | 26 Mo, 24 Mo après fermeture de la Terre | 220 Mo |
+| Terre mobile affichée | ne s'affichait pas | 0,2 à 3,4 s | — |
+
+Causes traitées : (1) tout le code venait du réseau à chaque ouverture → `precache.json` (326 fichiers, 5,4 Mo) installé avec le service worker, code et ressources **cache d'abord**, pages et `sw.js` réseau d'abord ; (2) squelette immédiat (`application.js`, `vue-terminal.js`) ; (3) calcul des statistiques et des flèches v8 dans un **Web Worker** (`marches/calcul-worker.js`), l'affichage ne l'attend pas ; (4) la miniature de la Terre téléchargeait des textures 8k (5 Mo) sur téléphone → image de 30 Ko ; (5) Terre mobile : textures 1k immédiates (58 + 95 + 111 Ko) puis 4k (638 Ko) selon le GPU et la mémoire, libération complète à la fermeture, pause quand l'onglet est caché ; (6) `devicePixelRatio` plafonné à 2, ombres et filtres absents du graphique mobile (existant).
+
+Limites honnêtes : la **toute première visite** reste lente (5,4 Mo à télécharger) ; les mesures de GPU sont faussées par SwiftShader ; le recalcul incrémental « dernière bougie seulement » des flèches v8 n'est pas fait (le moteur v8 est scellé : ses règles ne changent pas), le calcul complet est déporté dans le Worker ; pas de mesure sur un vrai téléphone.
